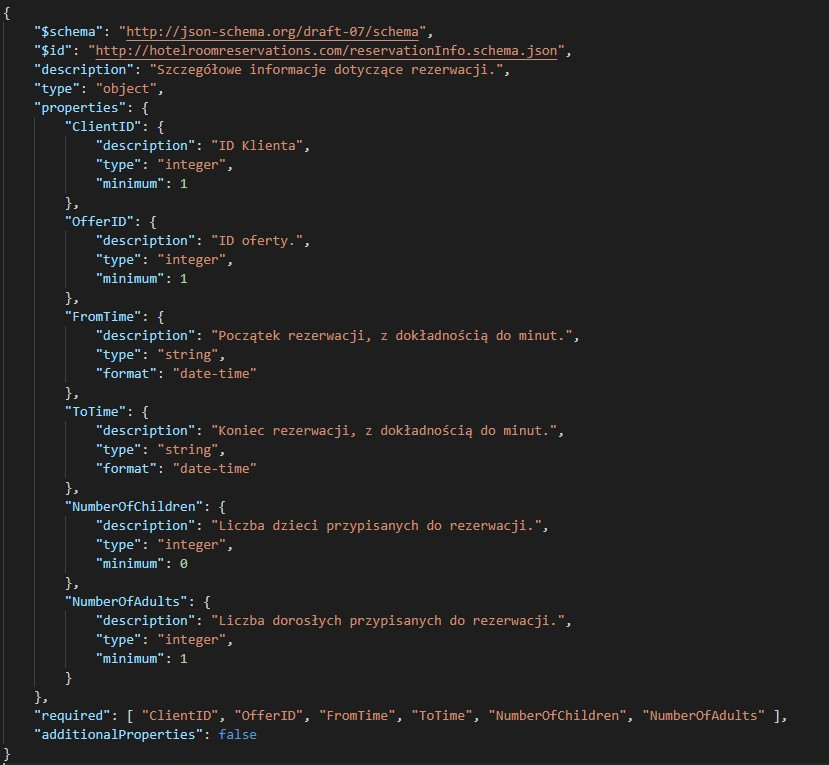
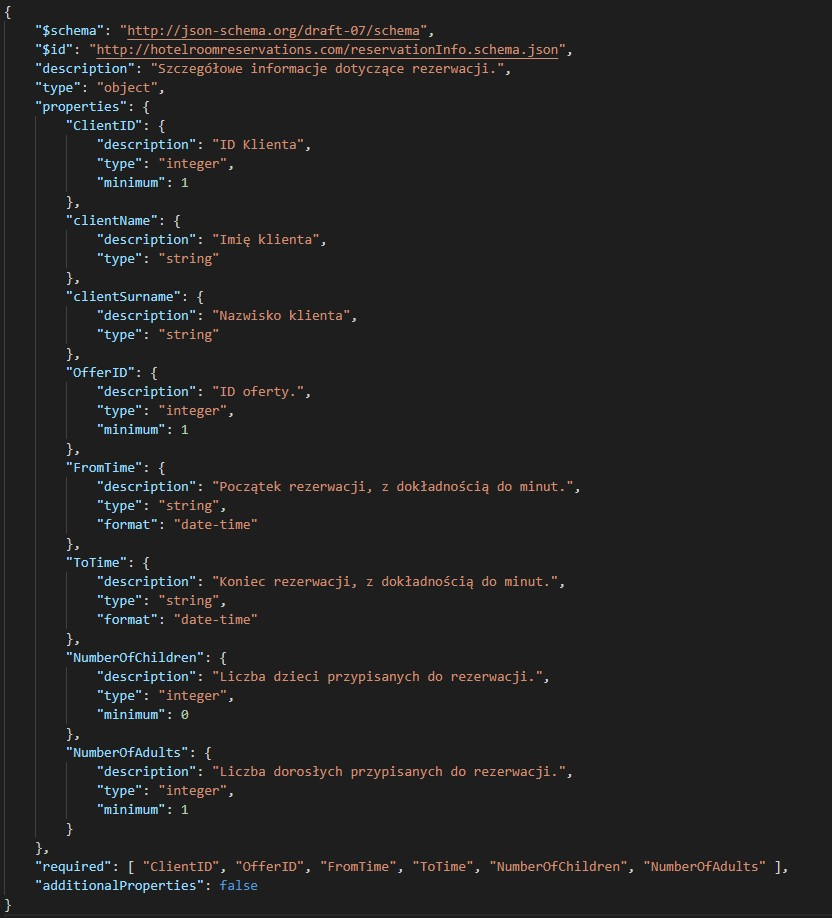
Dodanie nazwiska klienta do rezerwacji

diff --git a/specification.md b/specification.md
@@ -1739,8 +1739,6 @@ Oczekiwane odpowiedzi:
 -   `RESERVATION_CREATE_FAILURE`\
     Rezerwacja nie została utworzona pomyślnie.
 
-    <img src="Rezerwacje/paymentInfo.jpg">
-
 ### `RESERVATION_DELETE`
 
 Klient może zrezygnować ze swojej rezerwacji w dowolnym momencie. Zaraz
